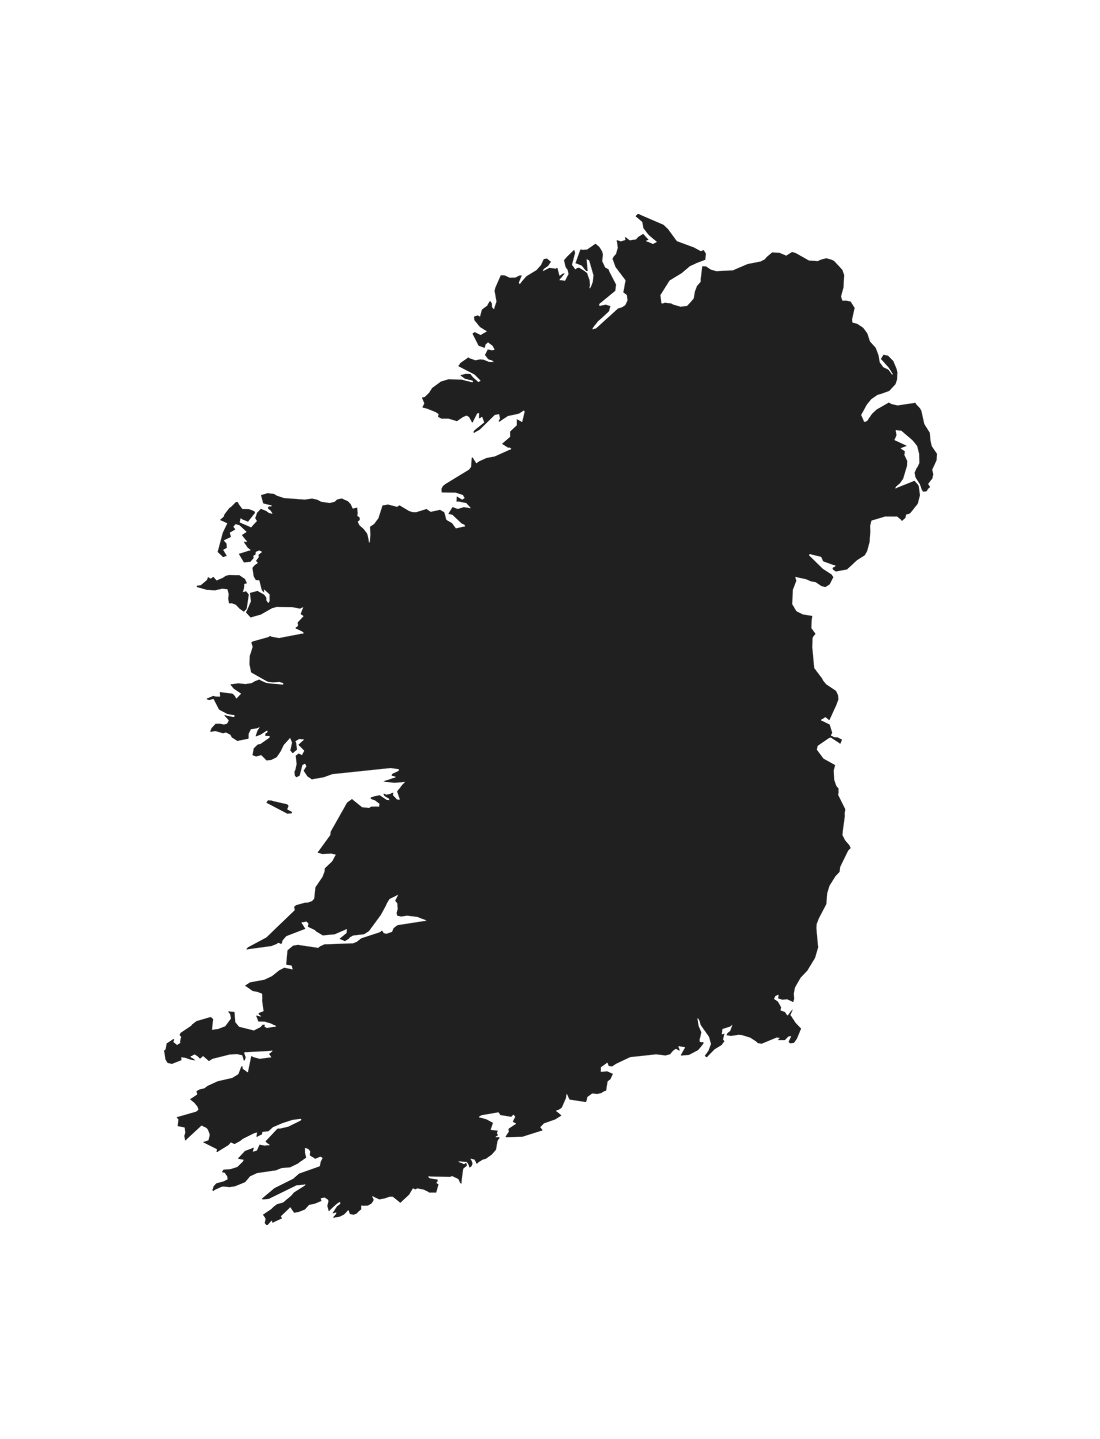
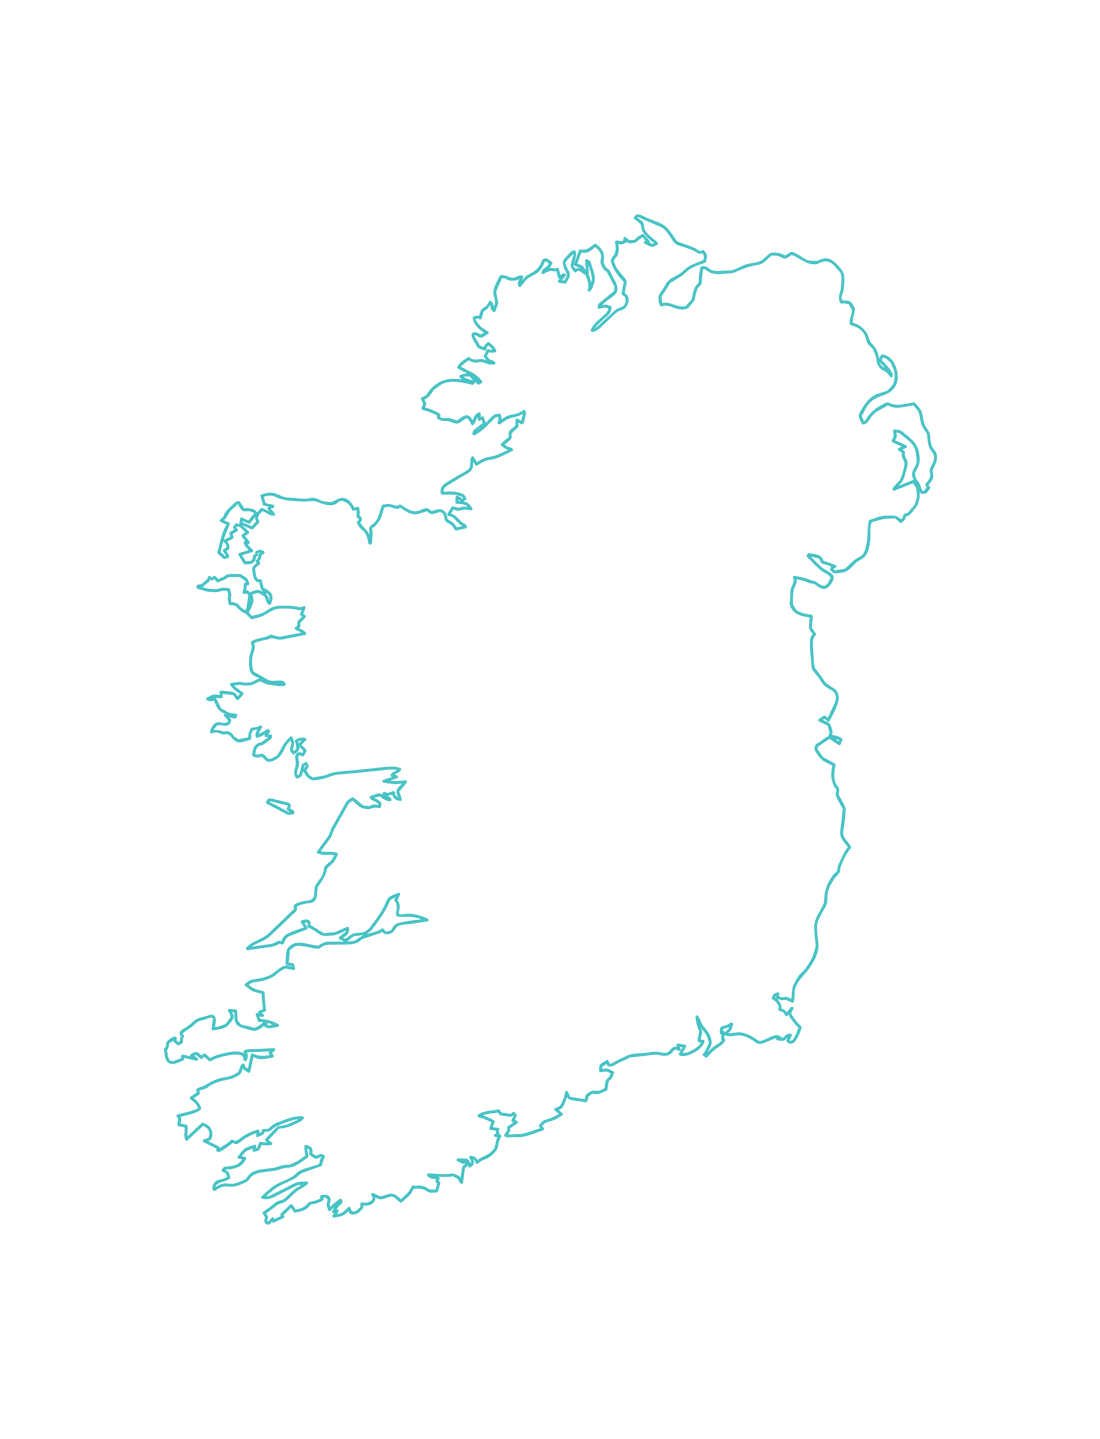
Replaced map-ireland img, adjusted map section styles

Changed region(s): [[0.1545, 0.1529, 0.8655, 0.8562]]

diff --git a/assets/css/style.css b/assets/css/style.css
@@ -183,14 +183,14 @@ main {
 /* Map with hotspot links */
 #map-ireland {
     background: url("../images/map-ireland.png") no-repeat center center/cover;
-    background-color: #48C3C5;
-    color: #202020;
+    background-color: #202020;
+    color: #ffffff;
     height: 400px;
     width: 100%;
 }
 
 #map-ireland h3 {
-    color: #202020;
+    color: #48C3C5;
     text-align: center;
     padding: 10px;
 }
